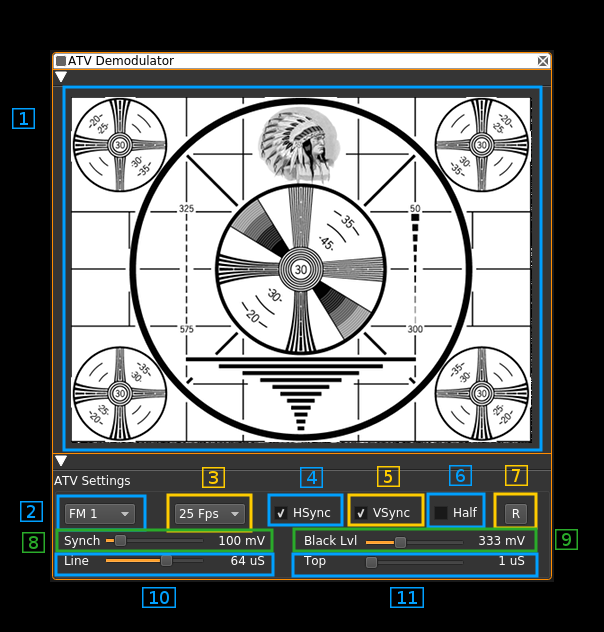
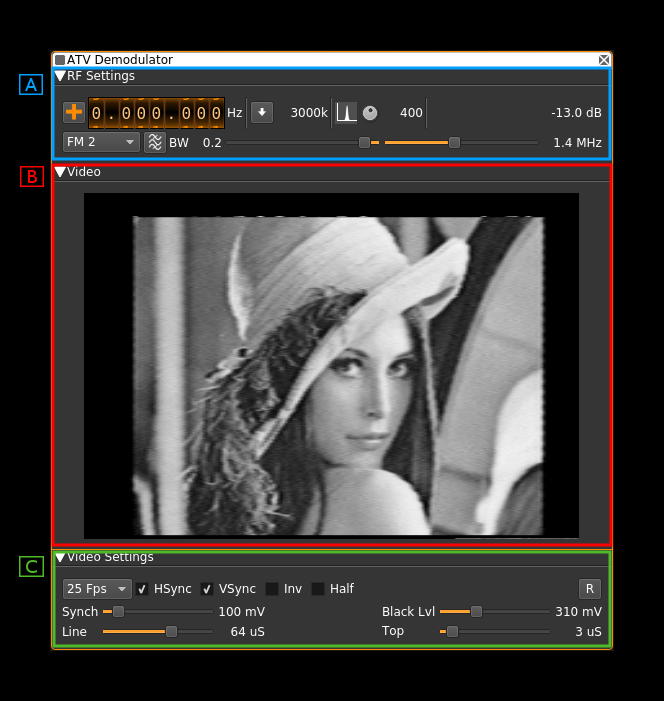
ATV plugins: updated documentation

diff --git a/plugins/channelrx/demodatv/readme.md b/plugins/channelrx/demodatv/readme.md
@@ -10,59 +10,146 @@ The whole bandwidth available to the channel is used. That is it runs at the dev
 
 ![ATV Demodulator plugin GUI](../../../doc/img/ATVDemod_plugin.png)
 
-<h3>1: Image</h3>
+The interface is divided into three collapsable sections:
 
-This is where the TV image appears.
+  - A: the RF settings
+  - B: the video screen
+  - C: the video settings
 
-<h3>2: Modulation</h3>
+Each part is detailed next
+
+<h2>A: RF settings</h2>
+
+![ATV Demodulator plugin GUI RF](../../../doc/img/ATVDemod_pluginA.png)
+
+<h3>1: Frequency shift from center frequency of reception direction</h3>
+
+The "+/-" button on the left side of the dial toggles between positive and negative shift.
+
+<h3>2: Frequency shift from center frequency of reception value</h3>
+
+Use the wheels to adjust the frequency shift in Hz from the center frequency of reception. Left click on a digit sets the cursor position at this digit. Right click on a digit sets all digits on the right to zero. This effectively floors value at the digit position.
+
+<h3>3: Rational downsampler toggle</h3>
+
+Use this toggle button to enable or disable the rational downsampler. 
+
+Without downsampling the sample rate given by the source plugin is directly applied to the channel.
+
+When the downsampler is engaged the channel sample rate is the closest integer MS/s below the source sample rate. e.g for a source sample rate of 3.2 MS/s this will be 3 MS/s. If a positive number of MS/s cannot be obtained the decimator is disabled and the source sample rate is used instead. 
+
+When the downsampler is engaged the signal is lowpass filtered and the cutoff frequency can be adjusted with the in band filter cutoff slider (12). This works also when the decimation ratio is 1.0 e.g source sample rate is 3 MS/s.
+
+<h3>4: Channel sample rate</h3>
+
+This is the channel sample rate in kS/s possibly downsampled from source when rational downsampler is engaged (3).
+
+<h3>5: BFO PLL lock indicator</h3>
+
+Warning: this is experimental.
+
+When single sideband demodulation is selected (USB, LSB) the BFO is phased locked to the carrier. This indicator turns green if the PLL is locked.
+
+<h3>6: BFO frequency adjustment</h3>
+
+Warning: this is experimental.
+
+This allows adjstment of BFO frequency in 10 Hz steps from -5 to +5 kHz. You will have to look for the right value to lock to the carrier. See (5) for the lock indicator.
+
+<h3>7: BFO frequency</h3>
+
+Warning: this is experimental.
+
+This is the BFO base frequency in Hz. Actual frequency may change acoording to PLL locking to the carrier.
+
+<h3>8: Channel power</h3>
+
+Average total power in dB relative to a &#177;1.0 amplitude signal generated in the pass band.
+
+<h3>9: Modulation</h3>
 
   - FM1: this is Frequency Modulation with approximative demodulation algorithm not using atan2
   - FM2: this is Frequency Modulation with less approximative demodulation algorithm still not using atan2
   - AM: this is Amplitude Modulation
+  - USB: USB demodulation synchronous to the carrier
+  - LSB: USB demodulation synchronous to the carrier
   
 For FM choose the algorithm that best suits your conditions.
 
-<h3>3: Frames Per Second</h3>
+USB and LSB modes are experimental and do not show good results for present standards sample rates.
+
+<h3>10: FFT asymmetrical filter toggle</h3>
+
+Use this button to enable/disable the FFT asymmetrical filter.
+
+<h3>11: FFT asymmetrical filter opposite band cutoff frequency</h3>
+
+For all modulations except LSB this is the lower side band.
+
+This slider lets you adjust the opposite band cutoff frequency of the FFT asymmetrical filter. The value in MHz appears on the left of the slider.
+
+<h3>12: FFT asymmetrical filter in band cutoff frequency</h3>
+
+For all modulations except LSB this is the upper side band.
+
+This slider lets you adjust the in band cutoff frequency of the FFT asymmetrical filter. The value in MHz appears on the left of the slider.
+
+If the rational downsampler is engaged (3) and the FFT filter is not engaged (10) this slider controls the downsampler cutoff frequency.
+
+<h2>B: Image</h2>
+
+This is where the TV image appears. Yes on the screenshot this is the famous [Lenna](https://en.wikipedia.org/wiki/Lenna). The original image is 512 &#215; 512 pixels so it has been cropped to fit the 4:3 format. The screen geometry ratio is fixed to 4:3 format.
+
+<h2>C: Video settings</h2>
+
+![ATV Demodulator plugin GUI Video settings](../../../doc/img/ATVDemod_pluginC.png)
+
+<h3>1: Frames Per Second</h3>
 
 This combo lets you chose between a 25 FPS or 30 FPS standard.
 
   - 25 FPS corresponds to the PAL 625 lines standard (PAL B,G,I,L)
   - 30 FPS corresponds to the PAL 525 lines standard (PAL M)
 
-<h3>4: Horizontal sync</h3>
+<h3>2: Horizontal sync</h3>
 
 Check/uncheck this box to toggle horizontal synchronization processing.
 
-<h3>5: Vertical sync</h3>
+<h3>3: Vertical sync</h3>
 
 Check/uncheck this box to toggle vertical synchronization processing.
 
-<h3>6: Half frames</h3>
+<h3>4: Invert video</h3>
+
+Check/uncheck this box to toggle video signal inversion. This does not work well in AM for now.
+
+<h3>5: Half frames</h3>
 
 Check this box to render only half of the frames for slow processors.
 
-<h3>7: Reset defaults</h3>
+<h3>6: Reset defaults</h3>
 
 Use this push button to reset values to a standard setting:
 
   - FM1 modulation
   - 25 FPS
   - Horizontal and vertical syncs active
+  - No video inversion
   - Interlacing
   - 100 mV sync level
   - 310 mV black level
   - 64 microsecond line length
   - 3 microsecond sync length
   
-<h3>8: Synchronization level</h3>
+<h3>7: Synchronization level</h3>
 
 Use this slider to adjust the top level of the synchronization pulse on a 0 to 1V scale. The value in mV appears on the right of the slider. Nominal value: 100 mV.
 
-<h3>9: Black level</h3>
+<h3>8: Black level</h3>
 
 Use this slider to adjust the black level of the video signal on a 0 to 1V scale. The value in mV appears on the right of the slider. Nominal value: 310 mV.
 
-<h3>10: Line length</h3>
+<h3>9: Line length</h3>
 
 This is the line length in time units. The value in microseconds appears on the right of the slider. Nominal value: 64 microseconds.
 

diff --git a/plugins/channeltx/modatv/readme.md b/plugins/channeltx/modatv/readme.md
@@ -36,10 +36,14 @@ The video signal can modulate the carrier in the following modes:
   - FM: Frequency modulation. Excursion is half the bandwidth available given the channel sample rate. e.g. for 4 MS/s sample rate this is &#177;1 MHz (2 MHz total) 
   - USB: SSB upper side band: video signal is transposed only in positive frequencies including DC component
   - LSB: SSB lower side band: video signal is transposed only in megative frequencies excluding DC component
+  - VUSB: SSB upper sideband with vestigial lower sideband. The cutoff frequency of the lower sideband is controlled by the left slider of (6)
+  - VLSB: SSB lower sideband with vestigial upper sideband. The cutoff frequency of the upper sideband is controlled by the left slider of (6)
   
 <h3>6: RF bandwidth</h3>
 
-This is the bandwidth in MHz of the channel filter when the interpolator is engaged. If the sink sample rate is an integer multiple of the base rate that depends on the standard then there is no interpolation else the channel rate is set to the closest integer multiple of the base rate below the sink sample rate. 
+This control has now a couple of sliders that do not appear on the screenshot.
+
+In all but SSB modulations the right slider is is the bandwidth in MHz of the channel filter when the interpolator is engaged. If the sink sample rate is an integer multiple of the base rate that depends on the standard then there is no interpolation else the channel rate is set to the closest integer multiple of the base rate below the sink sample rate. 
 
 The base rate depending on the standard is:
 
@@ -49,6 +53,10 @@ The base rate depending on the standard is:
 The modulating video signal sample rate is the same as the channel sample rate hence for example with a channel sample rate of 4 MS/s a video sample will last 1/4 = 0.25 &#956;s. In PAL625L a complete horizontal line lasts 64 &#956;s hence it will be composed of 64 &#215; 4 = 256 samples while the useful image line that lasts about 52 &#956;s will be composed of 52 &#215; 4 = 204 samples or points. 
 
 When no interpolation and hence no soft RF filtering in the channel takes place then filtering relies on the hardware. The hardware filter bandwidth can be set in the sink plugin.
+
+In USB and LSB modulations the right slider controls the sideband FFT filter cutoff. This filter includes DC to avoid the distorsion of the video signal that has a significant DC component.
+
+In VUSB and VLSB modulations in addition the left slider controls the opposite sideband FFT filter cutoff.
 
 <h3>7: Video signal level meter</h3>
 
@@ -74,6 +82,12 @@ This combo box lets you choose between various inputs for the video signal:
   - Image: still image read from the file selected with button (13). If no image is selected an uniform image is sent with the luminance adjusted with button (10)
   - Video: video file read from the file selected with button (14). If no image is selected an uniform image is sent with the luminance adjusted with button (10).  Buttons (15) and (16) control the play.
   - Camera: video signal from a webcam or supported video source connected to the system. If no source is selected an uniform image is sent with the luminance adjusted with button (10). Button (21) selects the camera source. Button (20) plays or stops the camera on a still image.
+
+<h3>9A: Video inversion toggle</h3>
+
+This checkbox is not on the screenshot and is on the right of (9) between (9) and (10).
+
+Use this checkbox to toggle video signal inversion before modulation. 
   
 <h3>10. Luminance level</h3> 
 
